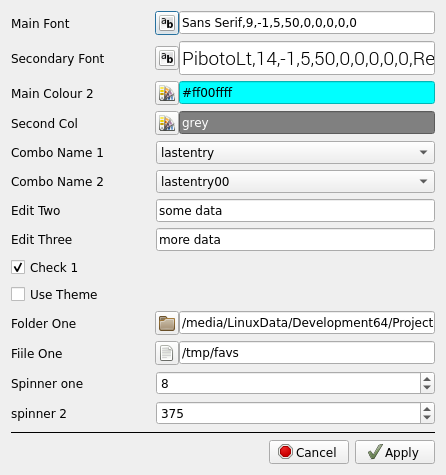
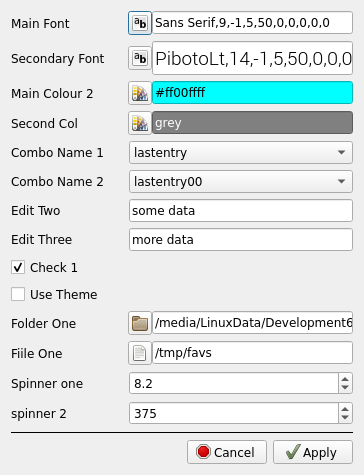
updated yadqt page

diff --git a/docs/pages/yadqt/yadqt.html b/docs/pages/yadqt/yadqt.html
@@ -328,6 +328,7 @@ yadqt --type=colour --default="#c080ff80" --btntoerr -t "Select a colour..."  2>
 		/usr<br>
 		<br>
 		#spin box<br>
+		#spin box<br>
 		#type=spinner<br>
 		#prefs name, prefs sections seperated by /<br>
 		#minimum<br>
@@ -341,7 +342,7 @@ yadqt --type=colour --default="#c080ff80" --btntoerr -t "Select a colour..."  2>
 		1<br>
 		10<br>
 		5<br>
-		1<br>
+		0.1<br>
 		<br>
 		#spin box<br>
 		#type=spinner<br>
